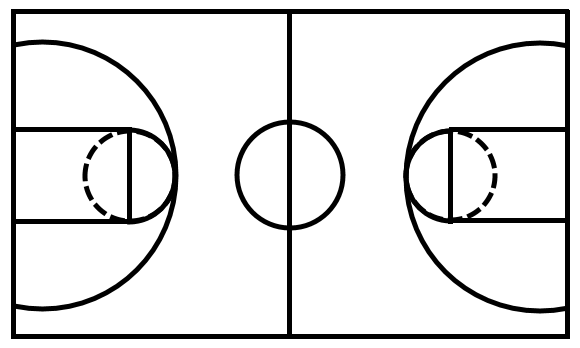
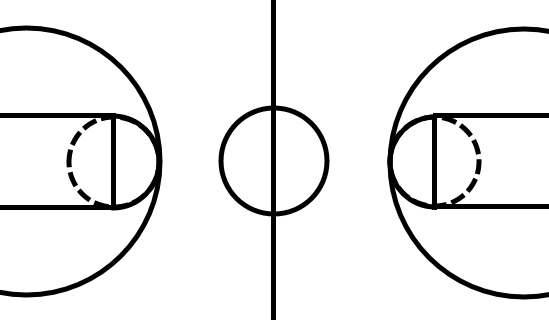
Turn canvas into clickable SVG
This was the hard part, tomorrow I'll add a record shot modal.

Also, this most likely doesn't work on mobile.

Changed region(s): [[0.0, 0.0, 1.0, 1.0], [0.3716, 0.3125, 0.6193, 0.6875]]

diff --git a/app.js b/app.js
@@ -12,7 +12,13 @@ var app = Vue.createApp({
             passwordHint: "",
             players: [],
             waitingForLogin: false,
-            selectedPlayer: null
+            selectedPlayer: null,
+            x: 0,
+            y: 0,
+
+            // change these whenever we change court-placeholder.png
+            imgWidth: 549,
+            imgHeight: 320,
         };
     },
     mounted() {
@@ -21,15 +27,6 @@ var app = Vue.createApp({
             backdrop: "static",
         });
         this.loginModal.show();
-
-        var canvas = document.getElementById("main-canvas"),
-            context = canvas.getContext("2d");
-
-        base_image = new Image();
-        base_image.src = "./court-placeholder.png";
-        base_image.onload = function () {
-            context.drawImage(base_image, 0, 0);
-        };
     },
     methods: {
         apiCall(path, args = {}) {
@@ -93,6 +90,21 @@ var app = Vue.createApp({
                 .finally(() => {
                     this.waitingForLogin = false;
                 });
+        },
+        clicked(e) {
+            var rect = e.target.getBoundingClientRect();
+            var styles = getComputedStyle(this.$refs.court);
+            var x = e.clientX - rect.left;
+            var y = e.clientY - rect.top;
+            this.startRecordingShot(x, y);
+        },
+        startRecordingShot(x, y) {
+            // TODO: actually record a shot
+            var styles = getComputedStyle(this.$refs.court);
+            x /= parseInt(styles.getPropertyValue("width"));
+            y /= parseInt(styles.getPropertyValue("height"));
+            this.x = Math.round(x * 100);
+            this.y = Math.round(y * 50);
         },
     },
     provide() {

diff --git a/index.html b/index.html
@@ -18,8 +18,12 @@
             </button>
             <h1 class="text-center text-secondary"><b class="text-primary">FOHS</b> ScoreTracker</h1>
             <div class="text-center">
-                <canvas id="main-canvas" width="580" height="348" style="border: 1px solid white"></canvas>
-                 <p v-if="selectedPlayer" >You have selected {{ selectedPlayer.name }} </p>    
+                <div class="d-inline-block bg-dark p-1 mw-100 col-12 col-lg-6 mb-2">
+                    <svg xmlns="http://www.w3.org/2000/svg" :view-box.camel="`0 0 ${imgWidth} ${imgHeight}`" ref="court" @click="clicked">
+                        <image href="./court-placeholder.png" width="100%" height="100%" />
+                        <circle :cx="imgWidth * (x/100)" :cy="imgHeight * (y/50)" r="15" fill="var(--bs-primary)" class="pe-none" />
+                    </svg>
+                </div>
             </div>
             <form @submit.prevent="addPlayer" class="mb-2">
                 <div class="input-group">
@@ -49,7 +53,7 @@
                                 <button type="button" class="btn btn-close" @click="loginWarning = false"></button>
                             </p>
                             <p class="text-center">
-                                <img src="court-placeholder.png" class="img-fluid w-75" />
+                                <img src="court-placeholder.png" class="img-fluid w-75 border border-4 border-dark" />
                             </p>
                             <p>
                                 <!-- TODO: actually put something here -->
